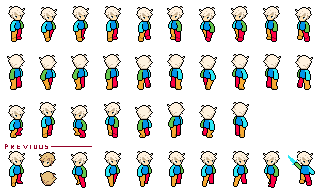
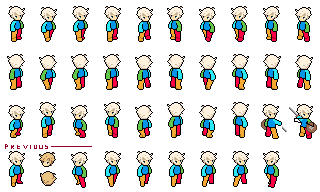
add small test case for equipment rendering

diff --git a/src/controllers/Combat.js b/src/controllers/Combat.js
@@ -48,10 +48,35 @@ class CombatController {
             this.entities[0].moveTo(this.layout.getLocation(4,1));
             this.entities[0].moveTo(this.layout.getLocation(4,2));
             this.entities[0].moveTo(this.layout.getLocation(4,3));
-            this.entities[0].moveTo(this.layout.getLocation(4,4));
+            this.entities[0].moveTo(this.layout.getLocation(5,3));
+            this.entities[0].moveTo(this.layout.getLocation(6,3));
+            this.entities[0].moveTo(this.layout.getLocation(6,2));
+            this.entities[0].moveTo(this.layout.getLocation(6,1));
+            this.entities[0].moveTo(this.layout.getLocation(5,1));
+            this.entities[0].moveTo(this.layout.getLocation(4,1));
+            this.entities[0].moveTo(this.layout.getLocation(4,2));
+            this.entities[0].moveTo(this.layout.getLocation(4,3));
+            this.entities[0].moveTo(this.layout.getLocation(5,3));
+            this.entities[0].moveTo(this.layout.getLocation(6,3));
+            this.entities[0].moveTo(this.layout.getLocation(6,2));
+            this.entities[0].moveTo(this.layout.getLocation(6,1));
+            this.entities[0].moveTo(this.layout.getLocation(5,1));
+            this.entities[0].moveTo(this.layout.getLocation(4,1));
+            this.entities[0].moveTo(this.layout.getLocation(4,2));
+            this.entities[0].moveTo(this.layout.getLocation(4,3));
+            this.entities[0].moveTo(this.layout.getLocation(5,3));
+            this.entities[0].moveTo(this.layout.getLocation(6,3));
+            this.entities[0].moveTo(this.layout.getLocation(6,2));
+            this.entities[0].moveTo(this.layout.getLocation(6,1));
+            this.entities[0].moveTo(this.layout.getLocation(5,1));
+            this.entities[0].moveTo(this.layout.getLocation(4,1));
         }, true);
-        this.entities[0].moveTo(this.layout.getLocation(2,0));
-        this.entities[0].moveTo(this.layout.getLocation(3,0), 'special-walk');
+        // this.entities[0].moveTo(this.layout.getLocation(2,0));
+        // this.entities[0].moveTo(this.layout.getLocation(3,0));
+        // this.entities[0].moveTo(this.layout.getLocation(4,0));
+        this.entities[0].animationQueue.push(this.entities[0]._getAnimationData('slash'));
+        this.entities[0].animationQueue.push(this.entities[0]._getAnimationData('slash'));
+        this.entities[0].animationQueue.push(this.entities[0]._getAnimationData('slash'));
 
 
 

diff --git a/data/tilesets/beasts.js b/data/tilesets/beasts.js
@@ -601,5 +601,12 @@ GAME_DATA.tilesets.beasts['player'] = {
                 { "idx": 8, "ms": 125, "px": .25, "py": .25, "pz": .25, "event": "special-walk-done" }
             ]
         },
+        "slash": {
+            "frames": [
+                { "idx": 3, "ms": 500 },
+                { "idx": 29, "ms": 500, "ox": -6, "oy": -2 },
+                { "idx": 28, "ms": 1250, "oy": -1, "ox": 2 }
+            ]
+        },
     }
 };

diff --git a/data/scenes.js b/data/scenes.js
@@ -16,7 +16,7 @@ GAME_DATA.scenes['arena'] = {
     area: 'arena',
     entities: [
         {id: 'player', x: 1, y: 0, orientation: 's'},
-        {id: 'slime', x: 4, y: 0, orientation: 's'},
+        //{id: 'slime', x: 4, y: 0, orientation: 's'},
         // {id: 'player', x: 5, y: 3, orientation: 's'},
         // {id: 'player', x: 5, y: 2, orientation: 'n'},
         // {id: 'player', x: 6, y: 2, orientation: 'w'}

diff --git a/src/models/Beast.js b/src/models/Beast.js
@@ -14,7 +14,6 @@ class Beast {
         // animation data
         this.meta = this.tile_config.config;
 
-
         // beast location
         this.location;
         this.initialX = config.x;
